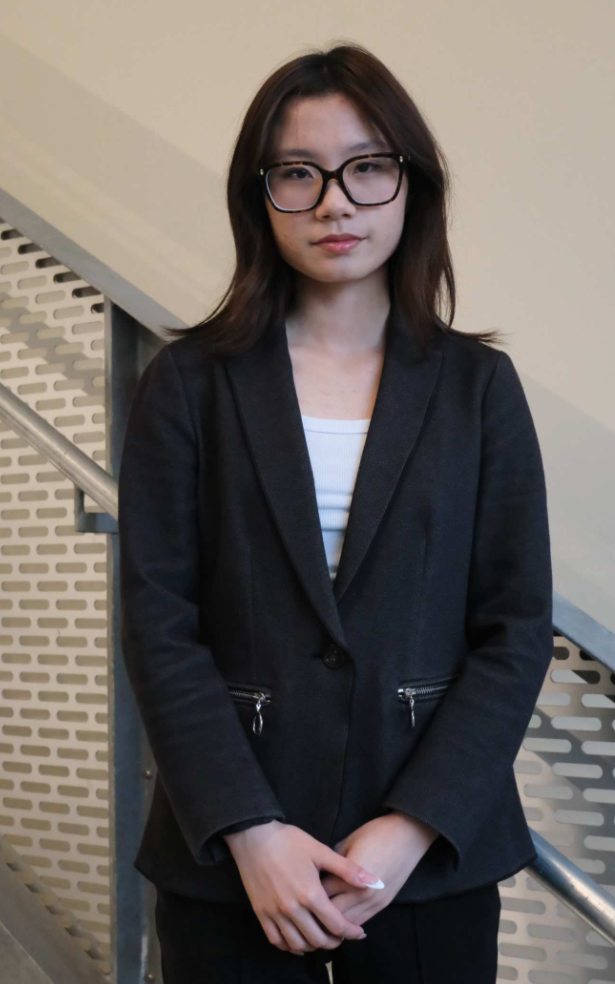
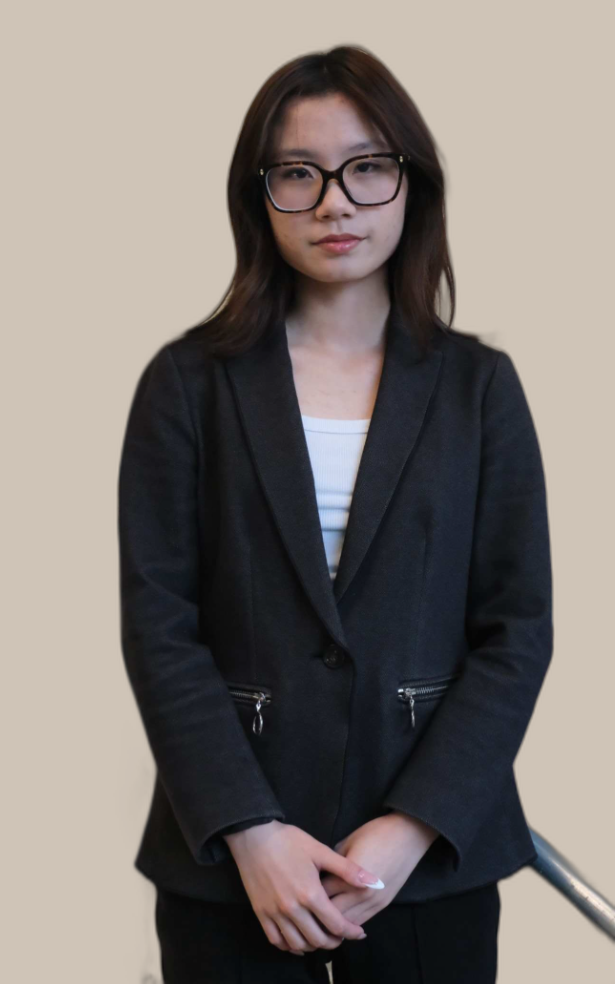
Updated headshots

diff --git a/src/components/People.tsx b/src/components/People.tsx
@@ -30,6 +30,8 @@ const PORTRAIT_FIT_BY_IMAGE: Record<string, PortraitFit> = {
   '/team/greesh.png': { y: 6, scale: 1.24, brightness: 1.12 },
   '/team/placeholder.png': { y: 6, scale: 1.24, brightness: 1.48 },
   '/team/placeholder-3.png': { y: 6, scale: 1.24, brightness: 1.15 },
+  '/team/elliott-yaroslavsky.png': { y: 50, scale: 1, brightness: 1 },
+  '/team/aayush-sen.png': { y: 12, scale: 1, brightness: 1 },
 };
 
 function portraitFitFor(imageUrl?: string): PortraitFit {
@@ -66,10 +68,10 @@ const deskGroups: DeskGroup[] = [
     label: 'Board',
     members: [
       { name: 'Daniel Zhang', role: 'Chief Technology Officer', imageUrl: '/team/daniel-zhang.png' },
-      { name: 'Elliott Yaroslavsky', role: 'Chief Legal Officer' },
+      { name: 'Elliott Yaroslavsky', role: 'Chief Legal Officer', imageUrl: '/team/elliott-yaroslavsky.png' },
       { name: 'Jack Zhang', role: 'Chief Human Resources Officer', imageUrl: '/team/jack-zhang.png' },
       { name: 'Hiraku Aoki', role: 'Chief Marketing Officer', imageUrl: '/team/hiraku.png' },
-      { name: 'Aayush Sen', role: 'Head of Investment Department' },
+      { name: 'Aayush Sen', role: 'Head of Investment Department', imageUrl: '/team/aayush-sen.png' },
       { name: 'Esteban Reyes', role: 'Head of Research Department', imageUrl: '/team/esteban-reyes.png' },
       {
         name: 'Greeshma Doppalapudi',

diff --git a/src/components/Research.tsx b/src/components/Research.tsx
@@ -10,6 +10,8 @@ type Publication = {
   date: string;
   type: string;
   summary: string;
+  /** HTML page that embeds the PDF so it opens in-browser instead of downloading. */
+  viewerUrl?: string;
   pdfUrl?: string;
 };
 
@@ -22,6 +24,7 @@ const publications: Publication[] = [
     type: 'Quantitative model',
     summary:
       'A backtested framework that introduces MAG 7 market dynamics and tests three diversification approaches — from risk-controlled Core to momentum-driven Max.',
+    viewerUrl: '/research/solaria-family-model-m5v3.html',
     pdfUrl: '/research/solaria-family-model-m5v3.pdf',
   },
 ];
@@ -100,7 +103,7 @@ export default function Research() {
                     {paper.pdfUrl ? (
                       <div className="mt-6 flex flex-wrap gap-3">
                         <Button
-                          href={paper.pdfUrl}
+                          href={paper.viewerUrl ?? paper.pdfUrl}
                           target="_blank"
                           rel="noopener noreferrer"
                           variant="primary"

diff --git a/public/research/solaria-family-model-m5v3.html b/public/research/solaria-family-model-m5v3.html
@@ -1,0 +1,28 @@
+<!doctype html>
+<html lang="en">
+  <head>
+    <meta charset="UTF-8" />
+    <meta name="viewport" content="width=device-width, initial-scale=1.0" />
+    <title>The Solaria MAG 7 Family — Solaria VC</title>
+    <style>
+      html,
+      body {
+        margin: 0;
+        height: 100%;
+        background: #111;
+      }
+      iframe {
+        display: block;
+        width: 100%;
+        height: 100%;
+        border: 0;
+      }
+    </style>
+  </head>
+  <body>
+    <iframe
+      src="./solaria-family-model-m5v3.pdf"
+      title="The Solaria MAG 7 Family research paper"
+    ></iframe>
+  </body>
+</html>

diff --git a/src/lib/investmentPortfolioData.ts b/src/lib/investmentPortfolioData.ts
@@ -14,7 +14,9 @@ export const INVESTMENT_PORTFOLIO_HOLDINGS = [
  * Select is shown — the paper's strongest risk/return blend vs. MAGS ETF.
  */
 export const INVESTMENT_PORTFOLIO = {
-  paperUrl: '/research/solaria-family-model-m5v3.pdf',
+  /** Opens an HTML viewer tab that embeds the PDF (avoids forced download). */
+  paperUrl: '/research/solaria-family-model-m5v3.html',
+  paperPdfUrl: '/research/solaria-family-model-m5v3.pdf',
   chartSrc: '/investment-portfolio/growth-of-one.png',
   chartAlt:
     'Growth of $1 for Solaria Core, Select, and Max compared to the MAGS ETF, May 2023 through May 2026',
